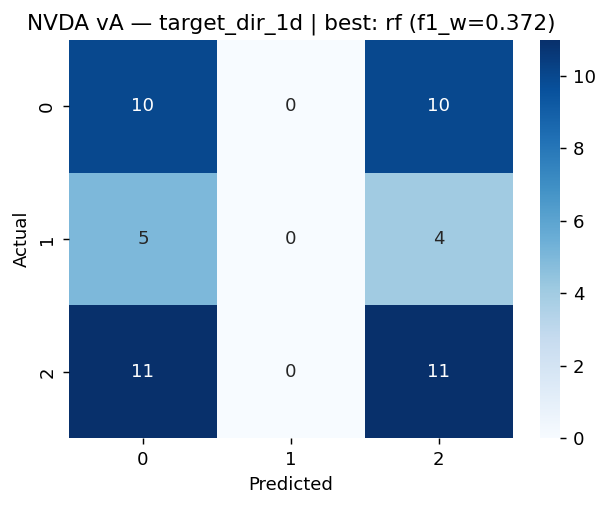
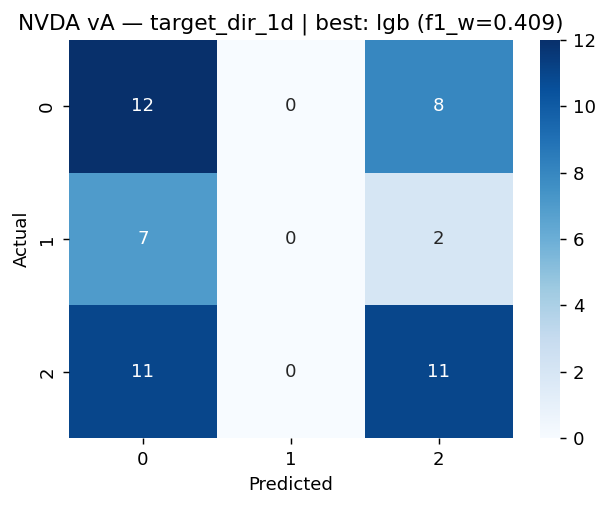
improve CV type + Expanding vs rolling and tuning

diff --git a/algorithms/machine_learning_algorithms/supervised/models.py b/algorithms/machine_learning_algorithms/supervised/models.py
@@ -100,49 +100,67 @@ def _get_feature_importances(model, name, sel_features):
 # Stage 7C — Hyperparameter tuning
 # ─────────────────────────────────────────────────────────────────────────────
 def reg_param_dists():
-    """RandomizedSearch parameter distributions for regression models."""
+    """RandomizedSearch parameter distributions for regression models.
+    Ranges aligned with guide recommendations for small datasets (~251 rows).
+    """
     return {
         "ridge":      {"alpha": loguniform(0.1, 100)},
         "elasticnet": {"alpha": loguniform(1e-3, 1), "l1_ratio": uniform(0.1, 0.85)},
         "huber":      {"epsilon": uniform(1.05, 1.45), "alpha": loguniform(1e-5, 0.1)},
-        "rf":         {"n_estimators": [100, 200, 300],
-                       "max_depth": [4, 6, 8, None],
-                       "min_samples_leaf": [1, 2, 4]},
-        "xgb":        {"n_estimators": [100, 200, 300], "max_depth": [3, 4, 6],
-                       "learning_rate": loguniform(0.01, 0.3),
+        "rf":         {"n_estimators": [50, 100, 200, 300],
+                       "max_depth": [2, 3, 4, None],
+                       "min_samples_leaf": [1, 2, 4],
+                       "max_features": ["sqrt", "log2", 0.5]},
+        "xgb":        {"n_estimators": [50, 100, 200, 300], "max_depth": [2, 3, 4],
+                       "learning_rate": loguniform(0.01, 0.1),
+                       "min_child_weight": [1, 3, 5, 10],
                        "subsample": uniform(0.6, 0.4), "colsample_bytree": uniform(0.6, 0.4),
-                       "reg_alpha": loguniform(0.01, 1), "reg_lambda": loguniform(0.1, 10)},
-        "lgb":        {"n_estimators": [100, 200, 300], "max_depth": [3, 4, 6],
-                       "learning_rate": loguniform(0.01, 0.3),
+                       "reg_alpha": [0, 0.1, 0.5, 1, 2, 5],
+                       "reg_lambda": loguniform(1, 20)},
+        "lgb":        {"n_estimators": [50, 100, 200, 300], "max_depth": [2, 3, 4],
+                       "num_leaves": [15, 31, 63],
+                       "learning_rate": loguniform(0.01, 0.1),
                        "subsample": uniform(0.6, 0.4), "colsample_bytree": uniform(0.6, 0.4),
-                       "reg_alpha": loguniform(0.01, 1), "reg_lambda": loguniform(0.1, 10)},
+                       "reg_alpha": [0, 0.1, 0.5, 1, 2, 5],
+                       "reg_lambda": loguniform(1, 20)},
     }
 
 
 def clf_param_dists():
-    """RandomizedSearch parameter distributions for classification models."""
+    """RandomizedSearch parameter distributions for classification models.
+    Ranges aligned with guide recommendations for small datasets (~251 rows).
+    """
     return {
         "logistic": {"C": loguniform(0.01, 100)},
         "svc_cal":  {"estimator__C": loguniform(0.01, 100)},
-        "rf":       {"n_estimators": [100, 200, 300],
-                     "max_depth": [4, 6, 8, None],
-                     "min_samples_leaf": [1, 2, 4]},
-        "xgb":      {"n_estimators": [100, 200, 300], "max_depth": [3, 4, 6],
-                     "learning_rate": loguniform(0.01, 0.3),
+        "rf":       {"n_estimators": [50, 100, 200, 300],
+                     "max_depth": [2, 3, 4, None],
+                     "min_samples_leaf": [1, 2, 4],
+                     "max_features": ["sqrt", "log2", 0.5]},
+        "xgb":      {"n_estimators": [50, 100, 200, 300], "max_depth": [2, 3, 4],
+                     "learning_rate": loguniform(0.01, 0.1),
+                     "min_child_weight": [1, 3, 5, 10],
                      "subsample": uniform(0.6, 0.4), "colsample_bytree": uniform(0.6, 0.4),
-                     "reg_alpha": loguniform(0.01, 1), "reg_lambda": loguniform(0.1, 10)},
-        "lgb":      {"n_estimators": [100, 200, 300], "max_depth": [3, 4, 6],
-                     "learning_rate": loguniform(0.01, 0.3),
+                     "reg_alpha": [0, 0.1, 0.5, 1, 2, 5],
+                     "reg_lambda": loguniform(1, 20)},
+        "lgb":      {"n_estimators": [50, 100, 200, 300], "max_depth": [2, 3, 4],
+                     "num_leaves": [15, 31, 63],
+                     "learning_rate": loguniform(0.01, 0.1),
                      "subsample": uniform(0.6, 0.4), "colsample_bytree": uniform(0.6, 0.4),
-                     "reg_alpha": loguniform(0.01, 1), "reg_lambda": loguniform(0.1, 10)},
+                     "reg_alpha": [0, 0.1, 0.5, 1, 2, 5],
+                     "reg_lambda": loguniform(1, 20)},
     }
 
 
 def _tune_scoring(task, target):
-    """Return the sklearn scoring string for inner CV during tuning."""
+    """Return the sklearn scoring string for inner CV during tuning.
+    - Regression: r2 (proxy; could also use neg_mean_absolute_error)
+    - Imbalanced binary (target_large_move): average_precision (PR AUC)
+    - Other classification: f1_macro (guide-recommended for multiclass)
+    """
     if task == "regression":
         return "r2"
-    return "average_precision" if target in BINARY_CLF else "f1_weighted"
+    return "average_precision" if target in BINARY_CLF else "f1_macro"
 
 
 def tune_model(name, model, param_dist, X, y, scoring, n_iter, n_splits=3):

diff --git a/algorithms/machine_learning_algorithms/supervised/config.py b/algorithms/machine_learning_algorithms/supervised/config.py
@@ -34,8 +34,5 @@ REGIME_COLS  = ["cluster_kmeans", "anomaly_iso", "anomaly_score"]
 
 # ── Stage 7C — hyperparameter tuning ─────────────────────────────────────────
 USE_TUNING   = True   # RandomizedSearchCV with TimeSeriesSplit inner CV
-TUNE_ITER    = 15     # iterations per model per fold
+TUNE_ITER    = 25     # iterations per model per fold (guide: 25–50)
 TUNE_SPLITS  = 3      # inner TimeSeriesSplit folds
-BINARY_CLF   = {"target_large_move"}
-MULTI_CLF    = {"target_dir_1d", "target_regime"}
-REGIME_COLS  = ["cluster_kmeans", "anomaly_iso", "anomaly_score"]
